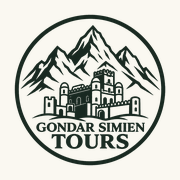
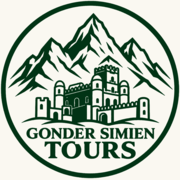
fix(brand): rename business name "Gondar Simien Tours" to "Gonder Simien Tours" site-wide
Scoped to the brand/business name only, matching the domain
(gondersimientours.com) — left every reference to the real city
"Gondar" itself unchanged (nav labels, addresses, destination
content), since that's the actual UNESCO-site city name.

- lib/site.ts: single source of truth (site.name), which propagates
  through page title templates, JSON-LD, and everywhere it's
  interpolated as {name}
- Hardcoded literal occurrences in all 4 locale message files,
  the generated content catalogue, terms/photo-credits pages, and
  the admin panel title
- Also regenerated app/icon.png and app/apple-icon.png from the
  corrected badge logo (they were stale exports with the old
  spelling) so the favicon matches everywhere else

Note: internal docs (README, plan.md, docs/*.md) still say "Gondar
Simien Tours" — left alone since they're not part of the live site.
lib/generated/catalogue.json is CMS-sourced, so this fix may not
survive the next content sync from that pipeline.

diff --git a/frontend/lib/seo.test.ts b/frontend/lib/seo.test.ts
@@ -27,13 +27,13 @@ describe("pageMetadata titles", () => {
 
   it("uses absolute titles only when titleAbsolute is set (home)", () => {
     const meta = pageMetadata({
-      title: "Gondar Simien Tours | Your Local Gateway to the Simien Mountains",
+      title: "Gonder Simien Tours | Your Local Gateway to the Simien Mountains",
       description: "Private guided journeys.",
       path: "/",
       titleAbsolute: true,
     });
     expect(meta.title).toEqual({
-      absolute: "Gondar Simien Tours | Your Local Gateway to the Simien Mountains",
+      absolute: "Gonder Simien Tours | Your Local Gateway to the Simien Mountains",
     });
   });
 
@@ -131,7 +131,7 @@ describe("faqPageJsonLd", () => {
   it("emits FAQPage entities from visible Q&A without inventing ratings or prices", () => {
     const json = faqPageJsonLd([
       {
-        question: "Who operates Gondar Simien Tours?",
+        question: "Who operates Gonder Simien Tours?",
         answer: "Journeys are operated by Simien Ethio Tours, based in Gondar.",
       },
       {
@@ -144,7 +144,7 @@ describe("faqPageJsonLd", () => {
     expect(json.mainEntity).toHaveLength(2);
     expect(json.mainEntity[0]).toMatchObject({
       "@type": "Question",
-      name: "Who operates Gondar Simien Tours?",
+      name: "Who operates Gonder Simien Tours?",
       acceptedAnswer: {
         "@type": "Answer",
         text: "Journeys are operated by Simien Ethio Tours, based in Gondar.",

diff --git a/frontend/app/[locale]/terms/page.tsx b/frontend/app/[locale]/terms/page.tsx
@@ -9,7 +9,7 @@ export async function generateMetadata({ params }: { params: Promise<{ locale: s
   return pageMetadata({
     locale: localeFromParam(locale),
     title: "Website Terms",
-    description: "Planning information, wildlife, safety, images, and booking terms for the Gondar Simien Tours website.",
+    description: "Planning information, wildlife, safety, images, and booking terms for the Gonder Simien Tours website.",
     path: "/terms",
     index: false,
   });

diff --git a/frontend/app/[locale]/photo-credits/page.tsx b/frontend/app/[locale]/photo-credits/page.tsx
@@ -10,7 +10,7 @@ export async function generateMetadata({ params }: { params: Promise<{ locale: s
   return pageMetadata({
     locale: localeFromParam(locale),
     title: "Photo credits",
-    description: "Source, authorship, licensing and attribution records for photographs used by Gondar Simien Tours.",
+    description: "Source, authorship, licensing and attribution records for photographs used by Gonder Simien Tours.",
     path: "/photo-credits",
   });
 }

diff --git a/frontend/lib/seo.ts b/frontend/lib/seo.ts
@@ -4,7 +4,7 @@
  * and NEXT_PUBLIC_SITE_URL. Do not invent ratings, prices, or extra claims here.
  *
  * Inner-page `title` is the document title *segment*. Root layout applies
- * `template: "%s | Gondar Simien Tours"`, so do not append the brand yourself.
+ * `template: "%s | Gonder Simien Tours"`, so do not append the brand yourself.
  * Home uses `titleAbsolute` to keep `Brand | tagline`.
  */
 

diff --git a/frontend/app/admin/layout.tsx b/frontend/app/admin/layout.tsx
@@ -3,7 +3,7 @@ import type { ReactNode } from "react";
 import { AdminShell } from "@/components/admin/AdminShell";
 
 export const metadata: Metadata = {
-  title: { absolute: "Admin | Gondar Simien Tours" },
+  title: { absolute: "Admin | Gonder Simien Tours" },
   description: null,
   alternates: null,
   robots: {

diff --git a/frontend/lib/site.ts b/frontend/lib/site.ts
@@ -1,7 +1,7 @@
 import { getJourneyPackage } from "@/lib/journey-packages";
 
 export const site = {
-  name: "Gondar Simien Tours",
+  name: "Gonder Simien Tours",
   legalOperator: "Simien Ethio Tours",
   phoneDisplay: "+251 956 61 6969",
   phone: "+251956616969",
